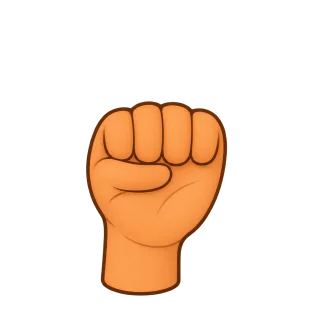
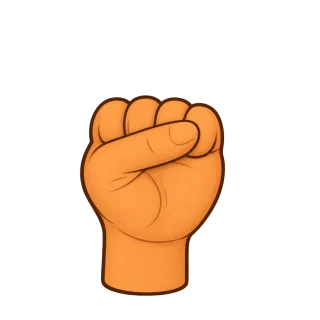
Illustrer les trois paniers, améliorer l’écoute et adopter le poing choisi

Changed region(s): [[0.25, 0.2812, 0.7188, 0.9375], [0.4688, 0.6562, 0.5, 0.7188], [0.3438, 0.9062, 0.4062, 0.9375]]

diff --git a/projects/archipel-des-nombres/main.js b/projects/archipel-des-nombres/main.js
@@ -1,5 +1,5 @@
 import {islands,numbers,accessible,startRound,answer,advance,outcome,coreCount,finalIsland,roundSize,exampleTask,matches,practiceIslands,groupFor,groupComplete,groupOpen,legacyCount,finalPractice,activityInfo} from './engine.ts';
-import {icon,collection,hitPositions,setCanvas,drawToken,drawBasket} from './art.js';
+import {icon,collection,hitPositions,setCanvas,drawToken,drawBasket,drawBasketShells} from './art.js';
 import {avatars,defaults,load,persist,add,remove,record} from './storage.js';
 import * as audio from './audio.js';
 import * as pwa from './pwa.js';
@@ -166,7 +166,19 @@ const auditory=q=>q.mode==='echo'||q.mode==='hear'||q.oral;
 function audioCue(q){
   const p=prefs();
   const name=current.transcript?numbers[q.n]:'Écouter le nombre';
-  return p.sound&&p.voice?button(name,'repeat','sound','sound-button'):'<span class="sound-button secondary">'+name+'</span>';
+  return p.sound&&p.voice
+    ?button('<span class="sound-button-icon">'+icon('sound')+'</span><span>'+name+'</span>','repeat','','sound-button')
+    :'<span class="sound-button sound-word">'+name+'</span>';
+}
+function basketFigure(n){
+  return '<span class="basket-choice-figure" aria-hidden="true"><img src="./images/choice-basket.webp" width="320" height="320" alt="" draggable="false">'+
+    (n?'<canvas data-shells="'+n+'"></canvas>':'')+'</span>';
+}
+function basketChoices(q){
+  const labels=['Panier de gauche','Panier du milieu','Panier de droite'];
+  return '<div class="basket-choices" role="group" aria-label="Paniers proposés">'+q.choices.map((n,i)=>
+    '<button type="button" class="basket-choice" data-action="answer-'+n+'" aria-label="'+labels[i]+'">'+basketFigure(n)+'</button>'
+  ).join('')+'</div>';
 }
 function collectionContents(q,n,layout,seed){
   return canvas(n,layout,q.token,seed,'mini-canvas')+(n===0?'<span class="collection-empty">Vide</span>':'');
@@ -206,7 +218,10 @@ function taskBody(){
         numeric(q,guided&&state.marked.size!==q.n)+(canAsk?'<div class="count-help">'+button('M’aider à compter','count-help','','text-button')+'</div>':'');
     }
     case 'echo':return '<div class="scene cave sound-scene">'+audioCue(q)+'</div>'+numeric(q);
-    case 'hear':return '<div class="audio-prompt">'+audioCue(q)+'</div>'+collectionChoices(q);
+    case 'hear':{
+      const prompt='<div class="audio-prompt">'+audioCue(q)+'</div>';
+      return q.basketChoices?'<div class="basket-task">'+prompt+basketChoices(q)+'</div>':prompt+collectionChoices(q);
+    }
     case 'cards':return collectionChoices(q);
     case 'same':
       return '<div class="model-collection">'+collectionCard(q,q.n,'Modèle',q.fixed??'line',q.seed,undefined,'model-card')+'</div>'+collectionChoices(q);
@@ -319,6 +334,9 @@ function drawSmallTokens(){
 }
 function redraw(){
   if(page!=='game'||!current) return;
+  for(const node of main.querySelectorAll('.basket-choice-figure canvas')){
+    drawBasketShells(node,Number(node.dataset.shells));
+  }
   for(const node of main.querySelectorAll('.count-canvas')){
     const d=node.dataset;
     let marked=null;
@@ -360,6 +378,8 @@ function explanation(q,value,correct){
   if(q.mode==='five')return 'Il y avait '+q.start+' objets. Il en manquait '+q.n+' pour arriver à cinq.';
   if(q.mode==='hidden')return 'Il y en a '+q.start+' dehors et '+q.n+' dans le coffre. Cela fait '+q.total+' en tout.';
   if(q.layout==='hand')return q.n===0?'Aucun doigt n’est levé. Cela fait zéro.':'Il y a '+q.n+' doigt'+(q.n===1?'':'s')+' levé'+(q.n===1?'':'s')+'.';
+  if(q.basketChoices)return q.n===0?'Le panier vide contient zéro coquillage.':
+    'Le bon panier contient '+q.n+' coquillage'+(q.n===1?'': 's')+'.';
   if(q.n===0)return 'Zéro veut dire qu’il n’y a aucun objet.';
   if(q.mode==='basket'||q.mode==='color')return correct?'Tu as obtenu exactement '+q.n+'.':'Ta collection en contient '+value+'. Il en fallait '+q.n+'.';
   if(q.mode==='echo')return 'Tu as entendu « '+numbers[q.n]+' ». Le chiffre est '+q.n+'.';
@@ -370,7 +390,7 @@ function feedbackBody(){
   const {correct,value}=feedback;
   const media=q.mode==='compare'?comparison(q,true):q.mode==='order'
     ?'<div class="answer-demo">'+[...q.order].sort((a,b)=>a-b).map(n=>'<span>'+n+'</span>').join('<b aria-hidden="true">›</b>')+'</div>'
-    :'<div class="answer-demo">'+(q.mode==='echo'?'':glanceFigure(q,'feedback-canvas'))+'<span>'+q.n+'</span></div>';
+    :'<div class="answer-demo">'+(q.basketChoices?basketFigure(q.n):q.mode==='echo'?'':glanceFigure(q,'feedback-canvas'))+'<span>'+q.n+'</span></div>';
   return '<div class="feedback '+(correct?'correct':'guided')+'"><div class="feedback-title"><span>'+icon(correct?'check':'spark')+'</span><div>'+
     '<h2 id="feedback-title" tabindex="-1">'+(correct?(example?'Tu as compris le geste !':'Bien trouvé !'):'Observons ensemble')+'</h2><p>'+explanation(q,value,correct)+'</p></div></div>'+
     (!correct?media+'<p class="retry-note">'+(round.index<round.planned?'Tu retrouveras une variante en fin de série.':'Tu pourras retravailler cette activité.')+'</p>':'')+

diff --git a/projects/archipel-des-nombres/style.css b/projects/archipel-des-nombres/style.css
@@ -125,8 +125,16 @@ progress::-moz-progress-bar{background:#488f7e;border-radius:30px}
 .count-help{text-align:center;margin-top:9px}
 .count-help .text-button{min-height:44px}
 @media(max-width:540px){.answers-all{grid-template-columns:repeat(3,minmax(0,1fr))}}
-.sound-button{z-index:1;display:flex;min-height:64px;min-width:min(232px,95%);gap:12px;background:#fffdfa;border-color:#d7c9e9;color:#553778;box-shadow:0 3px 0 #d8cdec;font-size:1.05rem}
-.sound-button svg{width:23px;height:23px}
+.sound-button{
+  position:relative;z-index:1;display:inline-flex;align-items:center;justify-content:center;gap:10px;
+  min-height:54px;max-width:100%;padding:7px 17px 7px 8px;border:1px solid #aacdc1;border-radius:999px;
+  background:#f7fcf8;color:#17554f;box-shadow:0 2px 0 #d1e5d9;line-height:1.18;text-align:center;font-weight:800;
+}
+button.sound-button:hover{background:#ecf8ef;border-color:#74ad9f}
+button.sound-button:active{box-shadow:none;transform:translateY(2px)}
+.sound-button-icon{flex:none;display:grid;place-items:center;width:36px;height:36px;border-radius:50%;background:#dcefe5}
+.sound-button-icon svg{width:20px;height:20px}
+.sound-word{min-width:88px;padding-inline:17px}
 .small-sound{height:87px}
 .small-sound .sound-button{min-height:52px}
 .small-scene{height:115px}
@@ -521,8 +529,25 @@ button.collection-card .mini-canvas{height:100%}
 .model-collection{display:grid;justify-items:center;margin-bottom:10px}
 .model-card{width:clamp(144px,46%,340px);border-color:#b5b6cc;background:linear-gradient(155deg,#fffaf5,#eee8f5)}
 .model-card .collection-label{color:#5b4977}
+.basket-task{
+  padding:clamp(9px,2.5vw,22px);border:1px solid #d9e5d5;border-radius:19px;
+  background:linear-gradient(180deg,#edf6ee 0%,#faf5e7 100%);
+}
+.basket-task .audio-prompt{margin-bottom:clamp(10px,2.4vw,20px)}
+.basket-choices{display:grid;grid-template-columns:repeat(3,minmax(0,1fr));gap:clamp(5px,1.4vw,13px)}
+.basket-choice{
+  min-width:0;min-height:48px;display:grid;place-items:center;padding:clamp(1px,.8vw,7px);
+  border:1px solid #c7d9ca;border-radius:14px;background:#fffdf6;box-shadow:0 3px 0 #d8e4d5;
+  touch-action:manipulation;
+}
+.basket-choice:hover{background:#fff8e6;border-color:#a8956b}
+.basket-choice:active{box-shadow:none;transform:translateY(2px)}
+.basket-choice-figure{display:block;position:relative;width:min(100%,176px);aspect-ratio:1;pointer-events:none}
+.basket-choice-figure :is(img,canvas){position:absolute;inset:0;width:100%;height:100%;display:block}
+.answer-demo .basket-choice-figure{width:80px;height:80px;padding:0;border-radius:0;background:none}
+[data-contrast=true] :is(.basket-task,.basket-choice,.sound-button){border-color:#688f83}
 .audio-prompt{display:grid;justify-items:center;margin-bottom:12px}
-.audio-prompt .sound-button{min-height:49px}
+
 .comparison-options{display:flex;justify-content:center;gap:10px;margin-top:12px}
 .comparison-options button{min-width:7.1rem}
 .hidden-total{display:flex;align-items:center;justify-content:center;gap:9px;font-weight:800;margin-bottom:8px}

diff --git a/projects/archipel-des-nombres/engine.ts b/projects/archipel-des-nombres/engine.ts
@@ -5,7 +5,7 @@ export type Token = 'shell' | 'fish' | 'berry' | 'flower' | 'leaf' | 'star' | 's
 export interface Task {
   mode: Mode; n: number; start: number; choices: number[];
   layout: Layout; token: Token; seed: number; flash: boolean; order: number[];
-  activity?: number; independent?: boolean; fixed?: Layout; oral?: boolean; comparison?: {left: number; right: number; ask: Ask}; total?: number;
+  activity?: number; independent?: boolean; basketChoices?: boolean; fixed?: Layout; oral?: boolean; comparison?: {left: number; right: number; ask: Ask}; total?: number;
 }
 export interface Round {
   chapter: number; island: number; tasks: Task[]; planned: number; index: number;
@@ -29,7 +29,7 @@ const legacy: Island[] = [
   {title:'La réserve du pont',description:'Voir ce qui change quand on ajoute ou retire un objet.',icon:'basket',tone:'gold',mode:'change',art:4},
 ];
 type Practice = Island & {
-  values?: number[]; fixed?: Layout; oral?: boolean; ask?: Ask; review?: number[];
+  values?: number[]; fixed?: Layout; oral?: boolean; ask?: Ask; review?: number[]; basketChoices?: boolean;
 };
 const atelier = (title: string, description: string, mode: Mode, art: number, rules: Partial<Practice> = {}): Practice =>
   ({title,description,mode,art,icon:legacy[art].icon,tone:legacy[art].tone,...rules});
@@ -38,7 +38,7 @@ const practice: Practice[] = [
   atelier('Chacun sa lanterne','Associe une lanterne à chaque feuille.','pair',0,{values:[1,2,3]}),
   atelier('Les doigts de la plage','Compte les doigts levés, de zéro à trois.','glance',0,{values:[1,2,3,0],fixed:'hand'}),
   atelier('Les jumeaux','Trouve un groupe qui a autant d’objets que le modèle.','same',0,{values:[0,1,2,3],fixed:'line'}),
-  atelier('Le panier vide','Écoute et reconnais les groupes de zéro, un ou deux objets.','hear',0,{values:[0,1,2],fixed:'line'}),
+  atelier('Le panier vide','Écoute et choisis le panier qui contient zéro, un ou deux coquillages.','hear',0,{values:[0,1,2],basketChoices:true}),
   atelier('La ronde de la plage','Retrouve les premiers gestes appris sur la plage.','mix',0,{review:[9,10,11,12,13]}),
   atelier('Les perles en ligne','Compte les perles, puis choisis leur nombre.','touch',2,{fixed:'line'}),
   atelier('Les poissons du lagon','Compte les poissons et indique combien il y en a.','touch',2,{fixed:'ring'}),
@@ -152,6 +152,7 @@ function taskFor(id: number,n: number,chapter: number,random: () => number,previ
   const activity=islands[id];
   const q=makeTask(activity.mode,n,chapter,random,previous);
   q.activity=id;
+  q.basketChoices=activity.basketChoices;
   q.independent=!chapter&&q.mode==='touch'&&id!==9;
   q.oral=activity.oral;
   q.fixed=activity.fixed;

diff --git a/projects/archipel-des-nombres/lessons.js b/projects/archipel-des-nombres/lessons.js
@@ -26,7 +26,9 @@ export function presentation(task){
   switch(task.mode){
     case 'touch':return {prompt:'Combien vois-tu d’objets ?',hint:n?'Touche chaque objet une fois. Le dernier nombre donne le total.':'La plage est vide. Choisis le nombre qui signifie « aucun objet ».',clip:'touch'};
     case 'echo':return {prompt:'Quel nombre entends-tu ?',hint:'Écoute, puis touche le chiffre.',clip:'n'+n};
-    case 'hear':return {prompt:'Montre le groupe demandé',hint:'Écoute le nombre, puis touche le groupe correspondant.',clip:'hear-group'};
+    case 'hear':return task.basketChoices
+      ?{prompt:'Choisis le bon panier',hint:'Écoute le nombre de coquillages, puis touche le panier qui en contient autant.',clip:'hear-basket'}
+      :{prompt:'Montre le groupe demandé',hint:'Écoute le nombre, puis touche le groupe correspondant.',clip:'hear-group'};
     case 'same':return {prompt:'Où y en a-t-il autant ?',hint:'Observe le modèle, puis cherche un groupe de même quantité.',clip:'same-group'};
     case 'cards':return {prompt:'Trouve la carte avec '+n+' '+plural(n,'coquillage'),hint:'La bonne carte quitte le jeu après ta réponse.',clip:'match-cards'};
     case 'compare':{
@@ -65,7 +67,9 @@ export function exampleHint(task, chapter){
     case 'touch':return task.independent?'Observe la collection. Il y en a '+n+'. Choisis '+n+'.':'Touche les objets. Le dernier nombre est '+n+' : choisis '+n+'.';
     case 'echo':return 'Écoute « '+numbers[n]+' ». Le chiffre correspondant est '+n+'.';
     case 'glance':return task.fixed?'Observe la figure. Il y en a '+n+'. Choisis '+n+'.':chapter?'Une rangée pleine de cinq et un objet en dessous, cela fait six.':'Ce dé a trois points. Tu peux les compter, puis choisir 3.';
-    case 'hear':return 'Écoute « '+numbers[n]+' », puis touche le groupe qui en contient '+n+'.';
+    case 'hear':return task.basketChoices
+      ?'Écoute « '+numbers[n]+' », puis touche le panier qui contient '+n+' '+plural(n,'coquillage')+'.'
+      :'Écoute « '+numbers[n]+' », puis touche le groupe qui en contient '+n+'.';
     case 'cards':return 'Touche la carte sur laquelle tu comptes '+n+' coquillages.';
     case 'same':return 'Compte les '+n+' objets du modèle, puis trouve un groupe de même quantité.';
     case 'compare':{

diff --git a/projects/archipel-des-nombres/art.js b/projects/archipel-des-nombres/art.js
@@ -181,6 +181,16 @@ export function drawBasket(canvas) {
   line(ctx,'#eab97d',2,rim);
 }
 
+export function drawBasketShells(canvas,n){
+  const area=setCanvas(canvas);
+  if(!area)return;
+  const {ctx,w,h}=area;
+  const spacing=w*.32;
+  for(let i=0;i<n;i++){
+    drawToken(ctx,'shell',w/2+(i-(n-1)/2)*spacing,h*.59,w*.29);
+  }
+}
+
 function collectionArea(w,h,layout){
   const height=layout==='ring'?Math.min(w,h):h;
   const wide=layout==='frame'||layout==='line';
